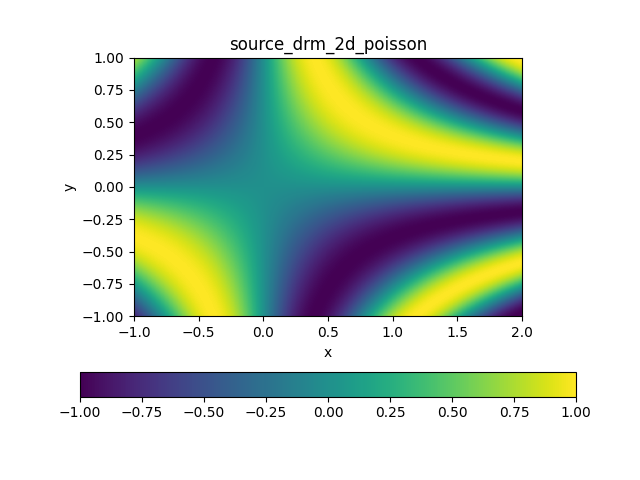
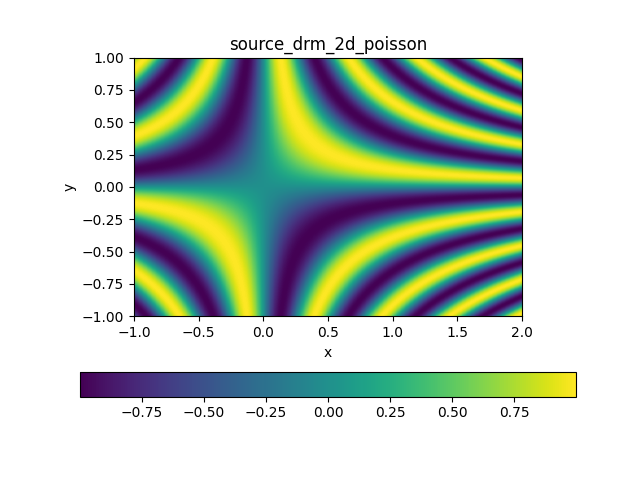
fixed model definition to include name of class. Implemented padding layer to finish drm implementation (actually made a difference)

Changed region(s): [[0.1875, 0.125, 0.8125, 0.6562], [0.875, 0.8438, 0.9375, 0.875], [0.0938, 0.8438, 0.1562, 0.875]]

diff --git a/project8/neural_network/models.py b/project8/neural_network/models.py
@@ -6,7 +6,6 @@ model names may not conflict with torch.nn module names!
 import torch
 import torch.nn as nn
 from project8.neural_network import modules as mod
-import warnings
 from typing import Callable, Dict, Any, Optional, Self
 
 
@@ -53,11 +52,10 @@ class NN(nn.Module):
 
     def definition(self) -> str:
         """
-        Returns a string with enough information to reconstruct the model.
-        It should be multiple lines of executable code that will return the
-        various layers of the model.
+        Should return a string that can be evaluated to initialize a model.
+
         """
-        out = ''
+        out = self.__class__.__name__ + '(ModuleList([\n'
         for layer in self.layers:
             layer_str: str = ''
             lines: list[str] = str(layer).split('\n')
@@ -70,9 +68,8 @@ class NN(nn.Module):
                 layer_str = '(' + layer_str
             while layer_str.startswith('(') and layer_str.endswith(')'):
                 layer_str = layer_str[1:-1]
-            out += layer_str
-            out += '\n'
-        return out[:-1]
+            out += '    ' + layer_str + ',\n'
+        return out[:-2] + '\n]))'
 
     @classmethod
     def empty(cls) -> Self:
@@ -97,16 +94,24 @@ class NN(nn.Module):
     def drm(cls,
             dim_in: int, dim_out: int,
             width: int, n_blocks: int,
-            act_fn: nn.Module = mod.polyReLU(3),
+            act_fn: nn.Module = mod.PolyReLU(3),
             n_linear_drm: int = 2) -> Self:
         layers = nn.ModuleList()
-        if dim_in != width:
+        if dim_in > width:
             layers.append(nn.Linear(dim_in, width))
-        if dim_in < width:
-            warnings.warn(
-                'padding input with zeros when n_in<width is not implemented'
-            )
+        elif dim_in < width:
+            layers.append(mod.Padding(width))
         for i in range(n_blocks):
             layers.append(mod.DRM_block(width, act_fn, n_linear_drm))
         layers.append(nn.Linear(width, dim_out))
         return cls(layers)
+
+
+def main() -> None:
+    model = NN.drm(2, 1, 64, 9)
+    print(model.definition())
+    pass
+
+
+if __name__ == '__main__':
+    main()

diff --git a/project8/neural_network/modules.py b/project8/neural_network/modules.py
@@ -8,7 +8,7 @@ import torch.nn as nn
 from typing import Any
 
 
-class abstractModule(nn.Module):
+class AbstractModule(nn.Module):
     """
     Abstract class for neural network modules
 
@@ -27,7 +27,7 @@ class abstractModule(nn.Module):
         return out[:-2]
 
 
-class polyReLU(abstractModule):
+class PolyReLU(AbstractModule):
     """ReLU^n activation function (for DRM)"""
 
     def __init__(self, n: int) -> None:
@@ -38,10 +38,21 @@ class polyReLU(abstractModule):
         return torch.pow(torch.relu(x), self.n)
 
 
-class DRM_block(abstractModule):
+class Padding(AbstractModule):
+    """Padding zeros along dim 1"""
+
+    def __init__(self, to_width: int) -> None:
+        super().__init__(to_width=to_width)
+        self.width: int = to_width
+
+    def forward(self, x: torch.Tensor) -> torch.Tensor:
+        return torch.nn.functional.pad(x, (0, self.width - x.shape[1]))
+
+
+class DRM_block(AbstractModule):
     """DRM block as described in deep ritz paper, defaults are also in paper"""
 
-    def __init__(self, width: int, act_fn: nn.Module = polyReLU(3),
+    def __init__(self, width: int, act_fn: nn.Module = PolyReLU(3),
                  n_linear: int = 2) -> None:
         super().__init__(width=width, act_fn=act_fn, n_linear=n_linear)
         self.layers: nn.ModuleList = nn.ModuleList()
@@ -56,7 +67,7 @@ class DRM_block(abstractModule):
         return x + x_temp
 
 
-class Sin(abstractModule):
+class Sin(AbstractModule):
     """Sin activation function"""
 
     def __init__(self, freq: float = 1.0) -> None:
@@ -67,7 +78,7 @@ class Sin(abstractModule):
         return torch.sin(x * self.freq)
 
 
-class FourierActivation(abstractModule):
+class FourierActivation(AbstractModule):
     """
     Fourier series like activation function with learnable parameters
     for every neuron: x = a*sin(f*x + p), where a, f, p are learnable

diff --git a/project8/neural_network/checkpoints.py b/project8/neural_network/checkpoints.py
@@ -21,6 +21,7 @@ class file_synced_dict:
     Uses torch's save and load function.
     Files are in the models folder.
     """
+
     def __init__(self, filename: str) -> None:
         if not filename.endswith('.pth'):
             filename += '.pth'
@@ -68,10 +69,8 @@ def save_model_state(model: NN, filename: str) -> None:
     model_file['model_definition'] = model.definition()
 
 
-def load_model(filename: str) -> NN:
+def load_model(filename: str) -> Any:
     model_file = file_synced_dict(filename)
-    model: NN = NN.empty()
-    for layer_str in model_file['model_definition'].split('\n'):
-        model.layers.append(eval(layer_str))
+    model = eval(model_file['model_definition'])
     model.load_state_dict(model_file['model_state'])
     return model

diff --git a/project8/neural_network/implementations/drm_2d_poisson.py b/project8/neural_network/implementations/drm_2d_poisson.py
@@ -8,7 +8,7 @@ from typing import Any
 
 
 def source(input: torch.Tensor) -> torch.Tensor:
-    return torch.sin(4 * input[:, 0] * input[:, 1]).unsqueeze(1)
+    return torch.sin(12 * input[:, 0] * input[:, 1]).unsqueeze(1)
 
 
 def drm_loss_2d_poisson_domain(diff: aw.Differentiator) -> torch.Tensor:
@@ -25,7 +25,7 @@ def drm_loss_2d_poisson_bndry(diff: aw.Differentiator) -> torch.Tensor:
 def train() -> None:
     device = utils.get_device()
     # init model
-    act_fn = modules.Sin(torch.pi)
+    act_fn = modules.PolyReLU(3)
     model = models.NN.drm(2, 1, 20, 4, act_fn=act_fn)
     logging.info(model)
     model.to(device)
